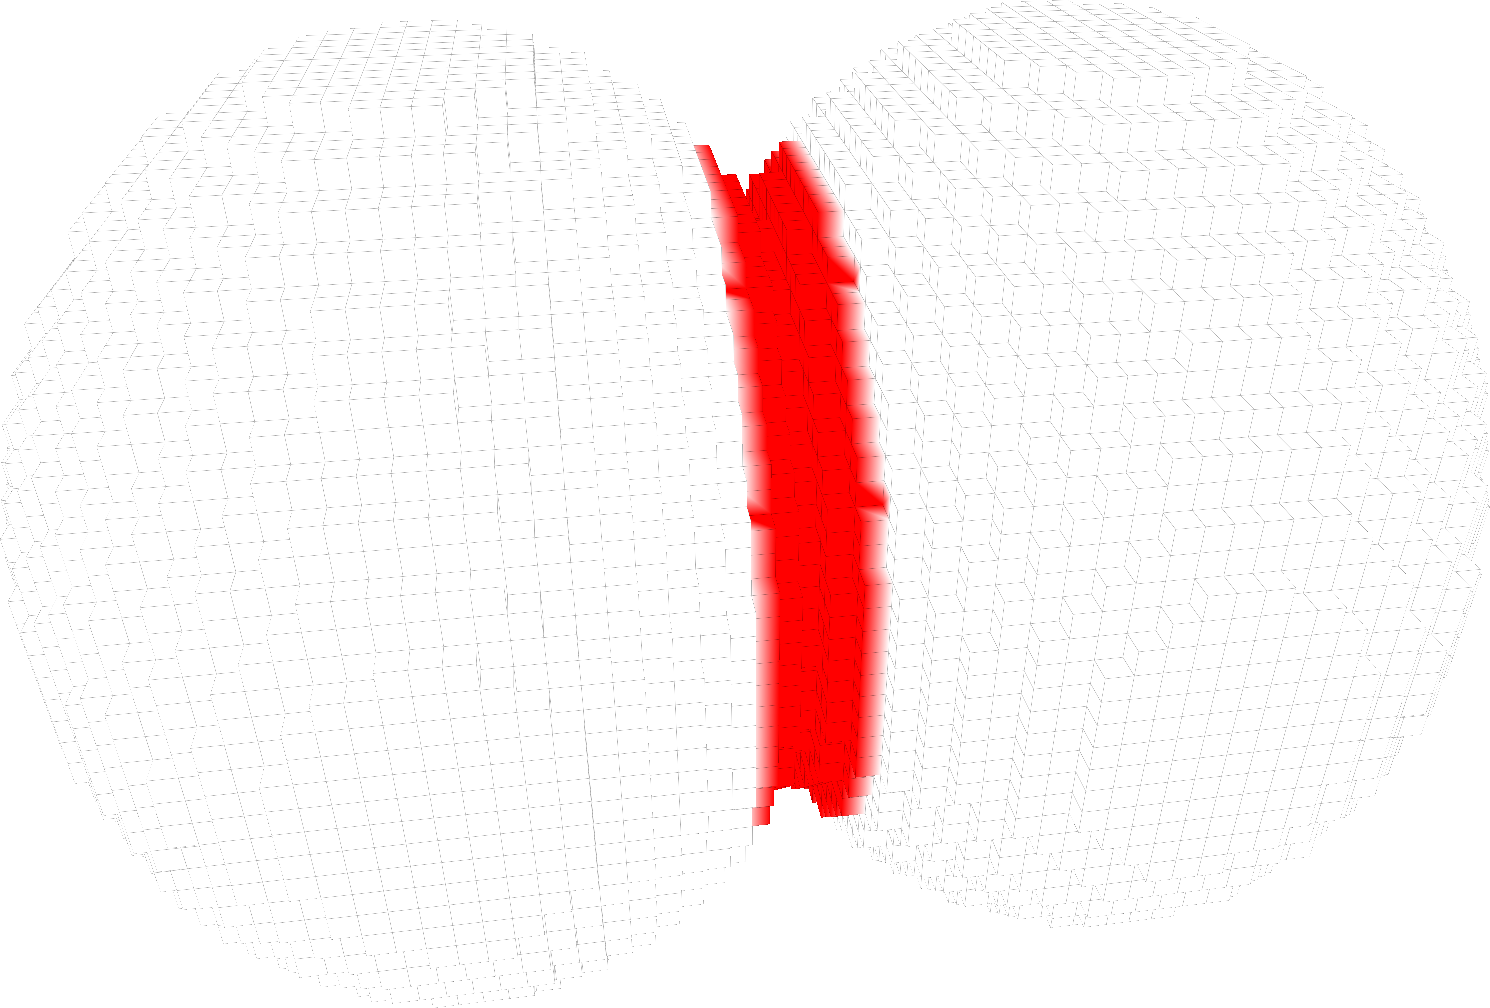
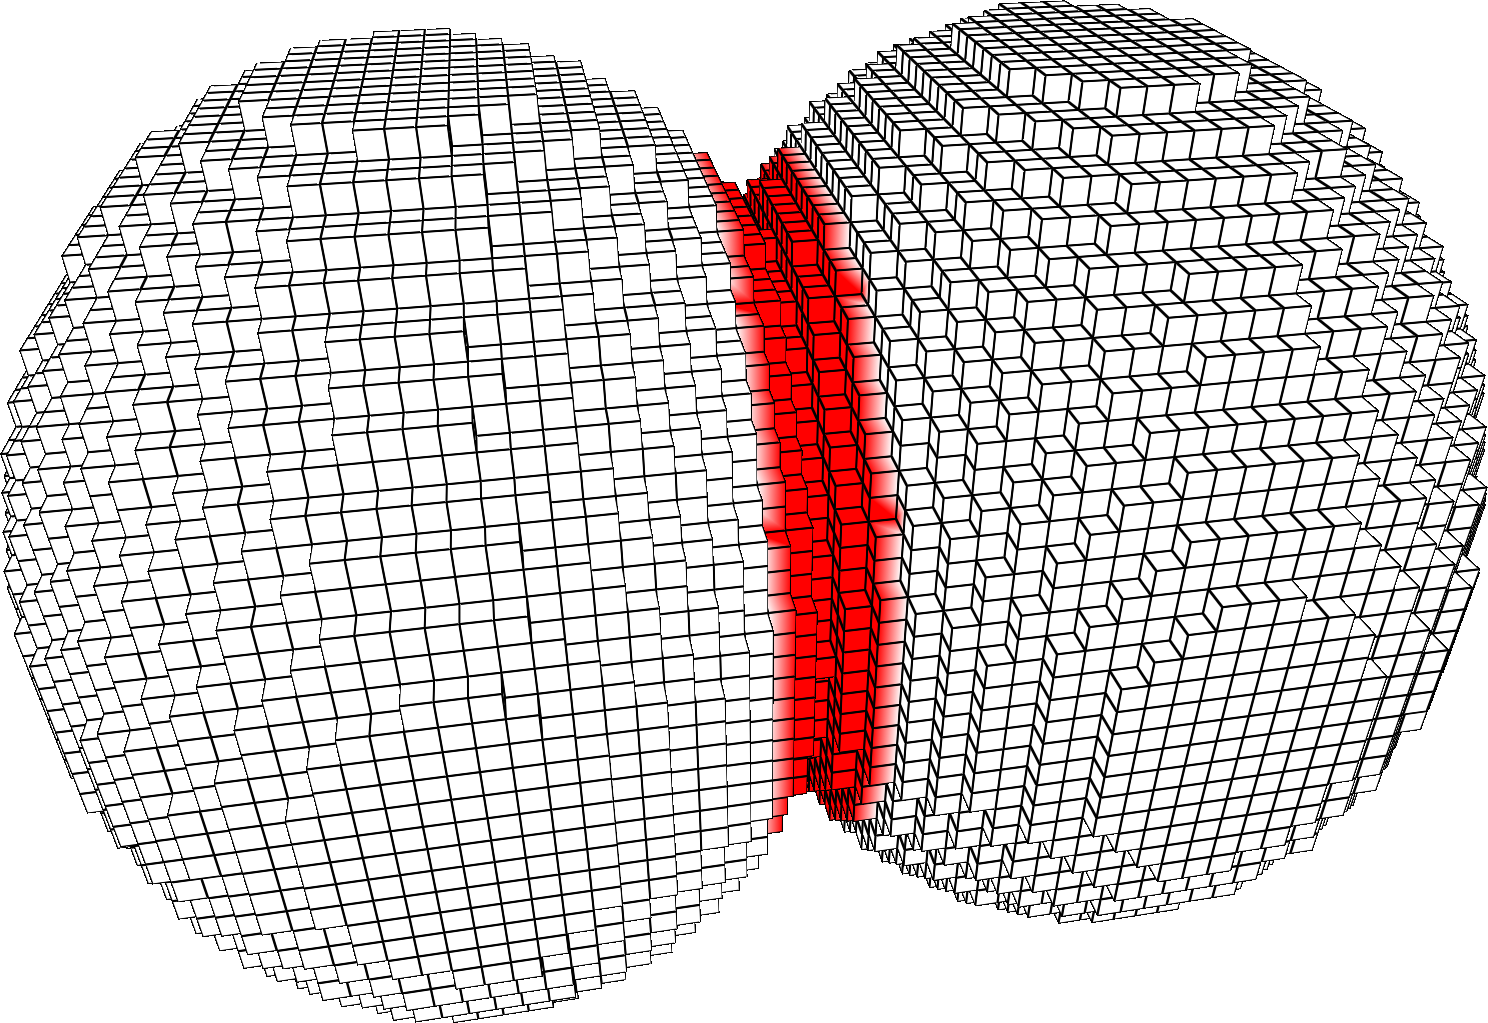
bigger and better images for singularities

Changed region(s): [[0.0, 0.0, 1.0, 1.0]]

diff --git a/JMIV2026/normalsandcurvature.tex b/JMIV2026/normalsandcurvature.tex
@@ -145,8 +145,8 @@ the singularity for all estimators.
     % 2 pictures side by side, with a name under each, singularities in red
     \centering
     \begin{tabular}{c c}
-        \includegraphics[width=0.3\columnwidth]{pictures/singularities/cubesphereS} &
-        \includegraphics[width=0.3\columnwidth]{pictures/singularities/double_ellipsoidS} \\
+        \includegraphics[width=0.4\columnwidth]{pictures/singularities/cubesphereS} &
+        \includegraphics[width=0.4\columnwidth]{pictures/singularities/double_ellipsoidS} \\
         Cubesphere & GluedEllipsoid \\
     \end{tabular}
     \caption{Singularities (in red) of the piecewise smooth shapes used to
